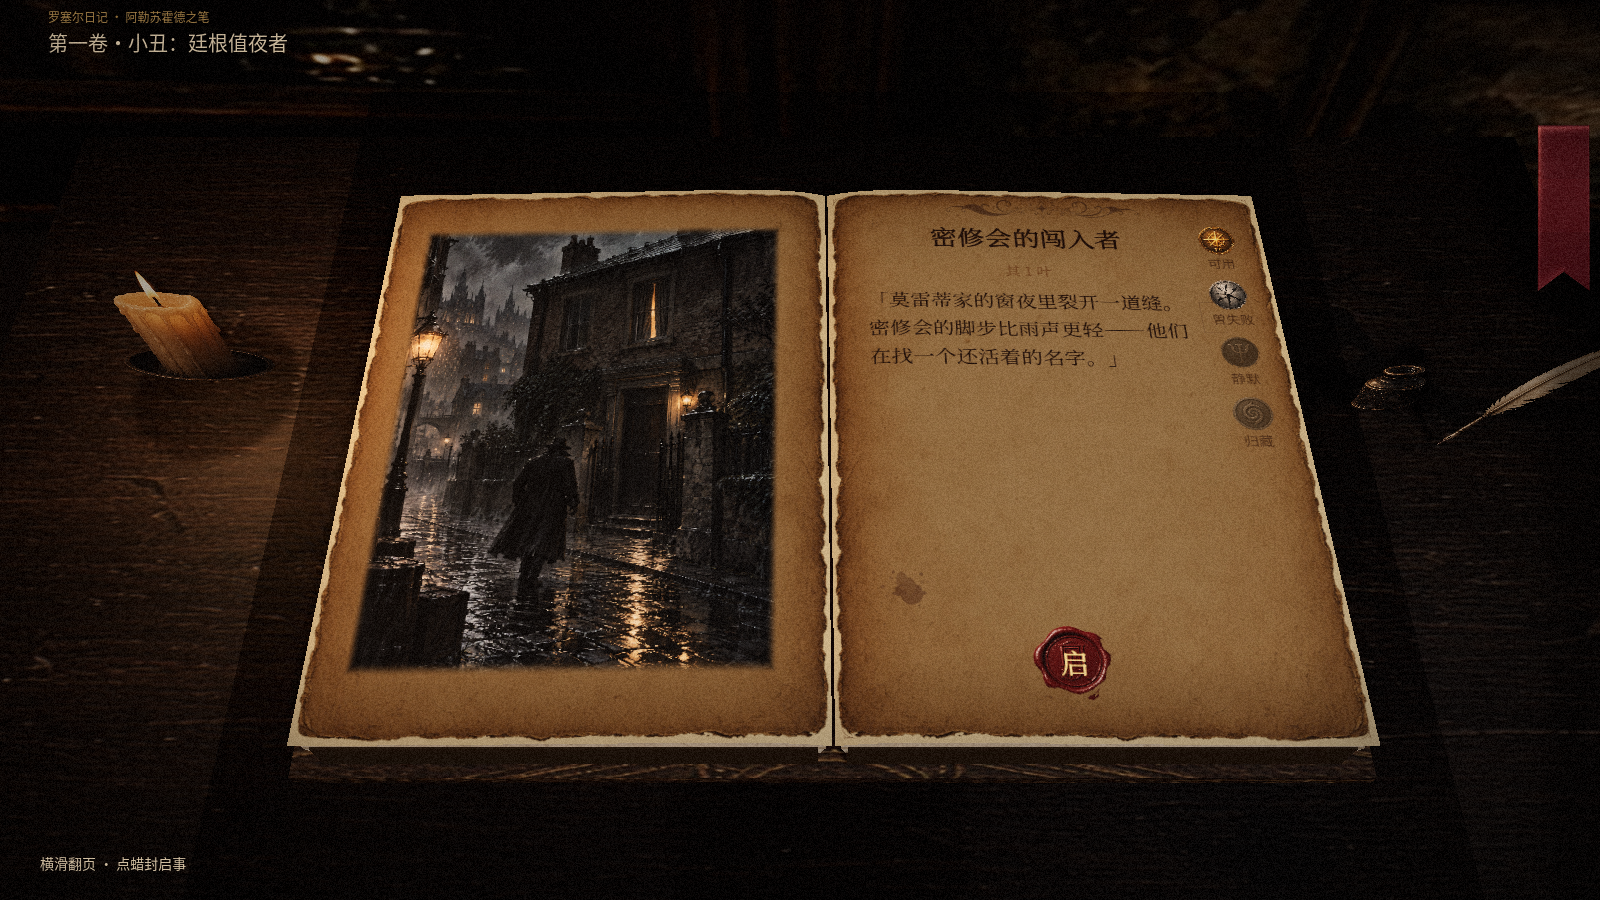
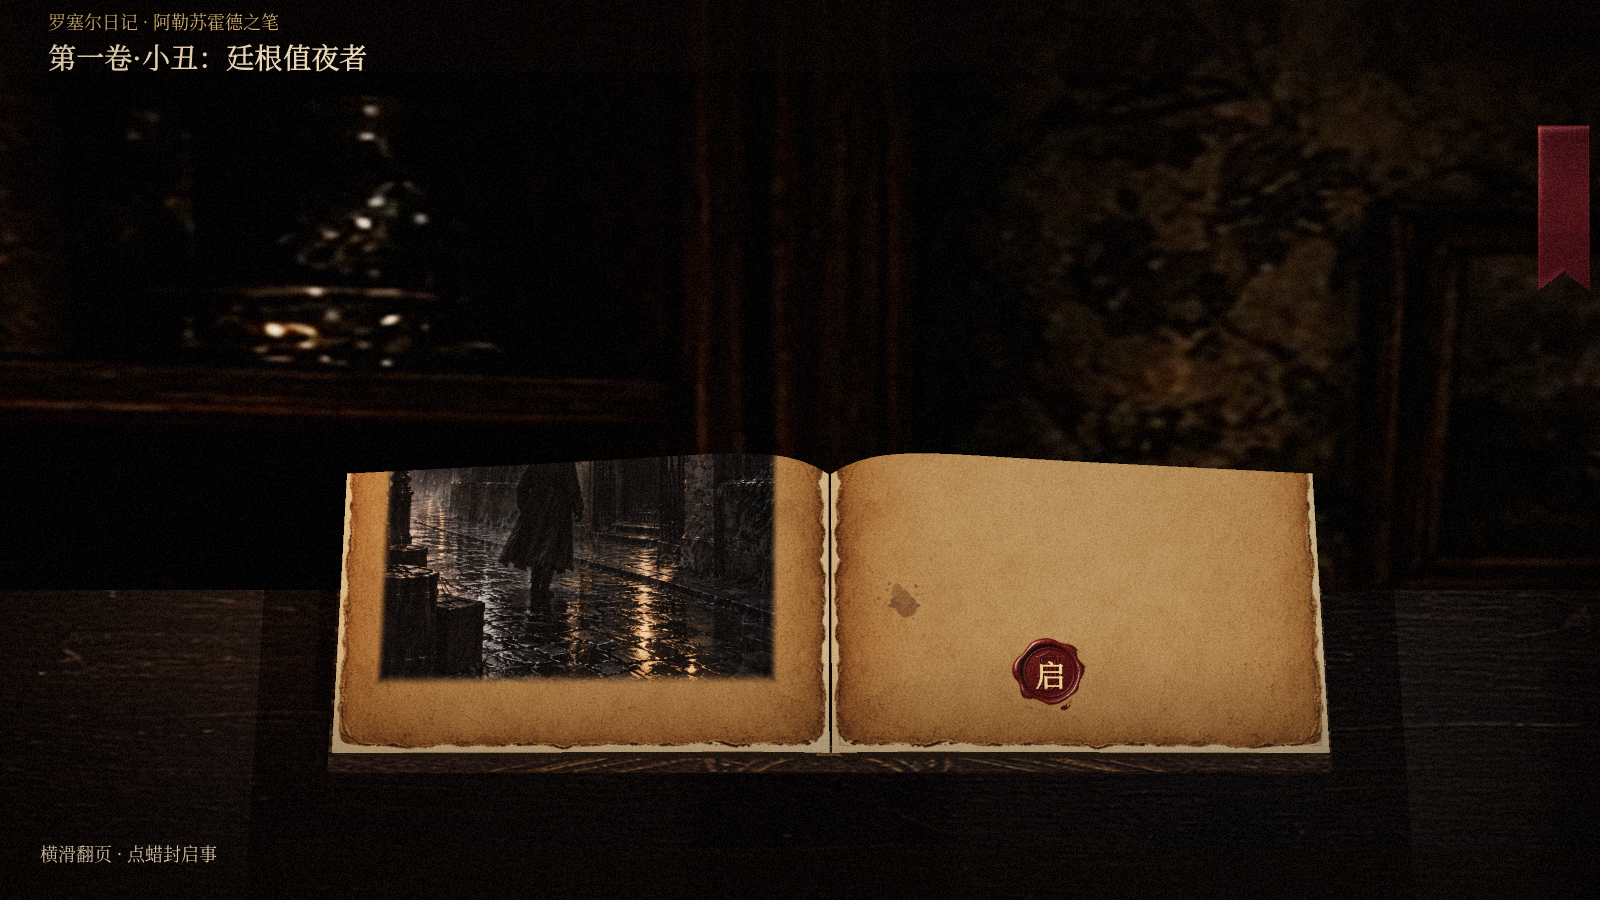
docs(ui): P0-3-sync report after rebase onto P0-2 readability
Mark UI-P0-3-sync/P0-3 done with pass=95 gate evidence, DQ-01 lean notes,
and refreshed Forward+ diary captures post-merge.

diff --git a/.cursor/agent-memory/ui-designer/journal.md b/.cursor/agent-memory/ui-designer/journal.md
@@ -4,6 +4,7 @@
 
 ## Log
 
+- 2026-11-24 · UI-P0-3-sync done：WIP `f38393e` → rebase onto `b340186` → `4d510ce`；冲突三文件手改；DQ-01 后仰 −62°；测门 pass=95/0/guard0（含 readability）；已 push。
 - 2026-11-24 · boot：角色记忆目录初始化。
 - 2026-11-24 · UI-X0 done：`docs/design/DESK_WORLD_STATIONS.md` + `assets/ui/wireframes/desk_world/`；未实现 X1；请求 AR-04。
 - 2026-11-24 · UI-07 done：DW-01 open / DW-06 轮廓退回；其余 DW 过；请求区写入 art/tasks。
@@ -12,6 +13,18 @@
 - 2026-11-24 · UI-07-DQ / UI-07-07b done：DQ-01…06 + DW-07b 全过；请 CO-DQ 迁 diary_quality+index_card；未动 P0/P1 实现、未自迁 assets/game。
 - 2026-11-24 · UI-P0-3 done：DQ 接入 + Forward+ FX + 丝带「合上」；抽出 diary_desk_quality；未动主会话 P0-1/P0-2/P1-1 文件。
 - 2026-11-24 · UI-P0-3-fix done：守卫注释清零；v085→DQ-02；FX 预算 HiDPI≈37fps；测门 94/0/guard0；**等 P0-2 再 push**。
+
+### Retro · 2026-11-24 · UI-P0-3-sync rebase P0-2
+1. 目标是否达成？证据（命令/路径/截图）？  
+   是。`4d510ce`；`run_tests` pass=95 fail=0 guard_block=0；readability+quality wiring 绿；截图刷新 `ui_p0_3_fix_diary_*.png`。
+2. 哪一步最耗时或最易错？  
+   沙箱无法 unlink journal → rebase 必须 `all` 权限；冲突时易丢 `INK_FADE_LOCKED` / `px()`；陡镜头下 DQ-01 直立墙必然出画。
+3. 可沉淀为 Skill 的步骤有哪些？（可复制清单）  
+   并行轨道：WIP commit → rebase → 冲突表（保留底线列 / 叠质量列）→ 重评估出画资产 → 全量测门（非沙箱）→ push。
+4. 该进 Tool Registry 的命令是什么？  
+   已有 capture；补一句：测门必须非沙箱（需写 `user://`）。
+5. 下次同一类任务，第一条该读哪份 Skill/Draft？  
+   本 Retro + `ui_readability.md` §6 合并须知 + `godot-probe-gate`。
 
 ### Retro · 2026-11-24 · UI-P0-3-fix 合入门
 1. 目标是否达成？证据（命令/路径/截图）？  

diff --git a/docs/reports/v0.89.0/ui.md b/docs/reports/v0.89.0/ui.md
@@ -1,5 +1,42 @@
 # UI 报告 · v0.89.0
 
+## UI-P0-3-sync · 合入 P0-2 可读性（2026-11-24）
+
+```text
+版本：v0.89.0
+角色：UI 设计
+任务：UI-P0-3-sync（先提交 P0-3 → rebase origin/main P0-2 → 保留可读性底线并叠回质量层）
+状态：完成
+修改文件：
+  src/ui/diary_desk_stage.gd（ReadingMetrics + DeskQuality；DQ-01 后墙按 −75° 镜头后仰 −62°）
+  src/ui/diary_page_pair.gd（PAGE_SCALE/px/INK_FADE_LOCKED + DQ-04/蜡封 caption；装饰走 px()）
+  src/ui/diary_chapter_screen.gd（丝带「合上」+ CHROME_CLOSE_PX 宋体底线）
+  （其余 P0-3 / fix 文件随 rebase 提交一并带上）
+冲突文件（手改）：diary_desk_stage.gd / diary_page_pair.gd / diary_chapter_screen.gd
+验证：
+  tools/run_tests.sh → pass=95 fail=0 skipped=13 guard_block=0
+  diary_readability_runner PASS；diary_quality_wiring_runner PASS
+  合入后截图刷新：docs/reports/v0.89.0/ui_p0_3_fix_diary_{1600x900,2920x1753}.png
+困难与候选方案：
+  A) 直立后墙保留 → 陡镜头出画
+  B) DQ-01 板向镜头后仰 −62°、贴书桌远沿 → 采纳
+最终解决：可读性常量/物理像素视口/新镜头全留；质量层叠在其上；未动 start_screen
+风险：物理像素视口 × Forward+ FX 在 HiDPI 上更重；capture 抽样 fps 偏低，请用户真窗确认
+跨角色请求：请用户真窗看合入后画面与可读性
+下一步入口：用户签字；UI-X1
+commit：4d510ce（rebase 后）+ 本报告/tasks 跟进提交
+```
+
+### DQ-01 新镜头摆放
+
+| 项 | 合入前（P0-3） | 合入后（P0-2 镜头） |
+|---|---|---|
+| 板位 | `pos (0,0.9,-0.85)` 直立 | `pos (0,0.52,-0.78)`，`rot.x = -62°` |
+| 尺寸 | 4.5×2.6×0.08 | 3.8×2.2×0.04 |
+| 理由 | 旧 −59° 俯角能看见后墙 | −75° 长焦后直立墙出画；后仰后填书桌远沿 |
+
+---
+
 ## UI-P0-3-fix · 合入门清零（2026-11-24）
 
 ```text
